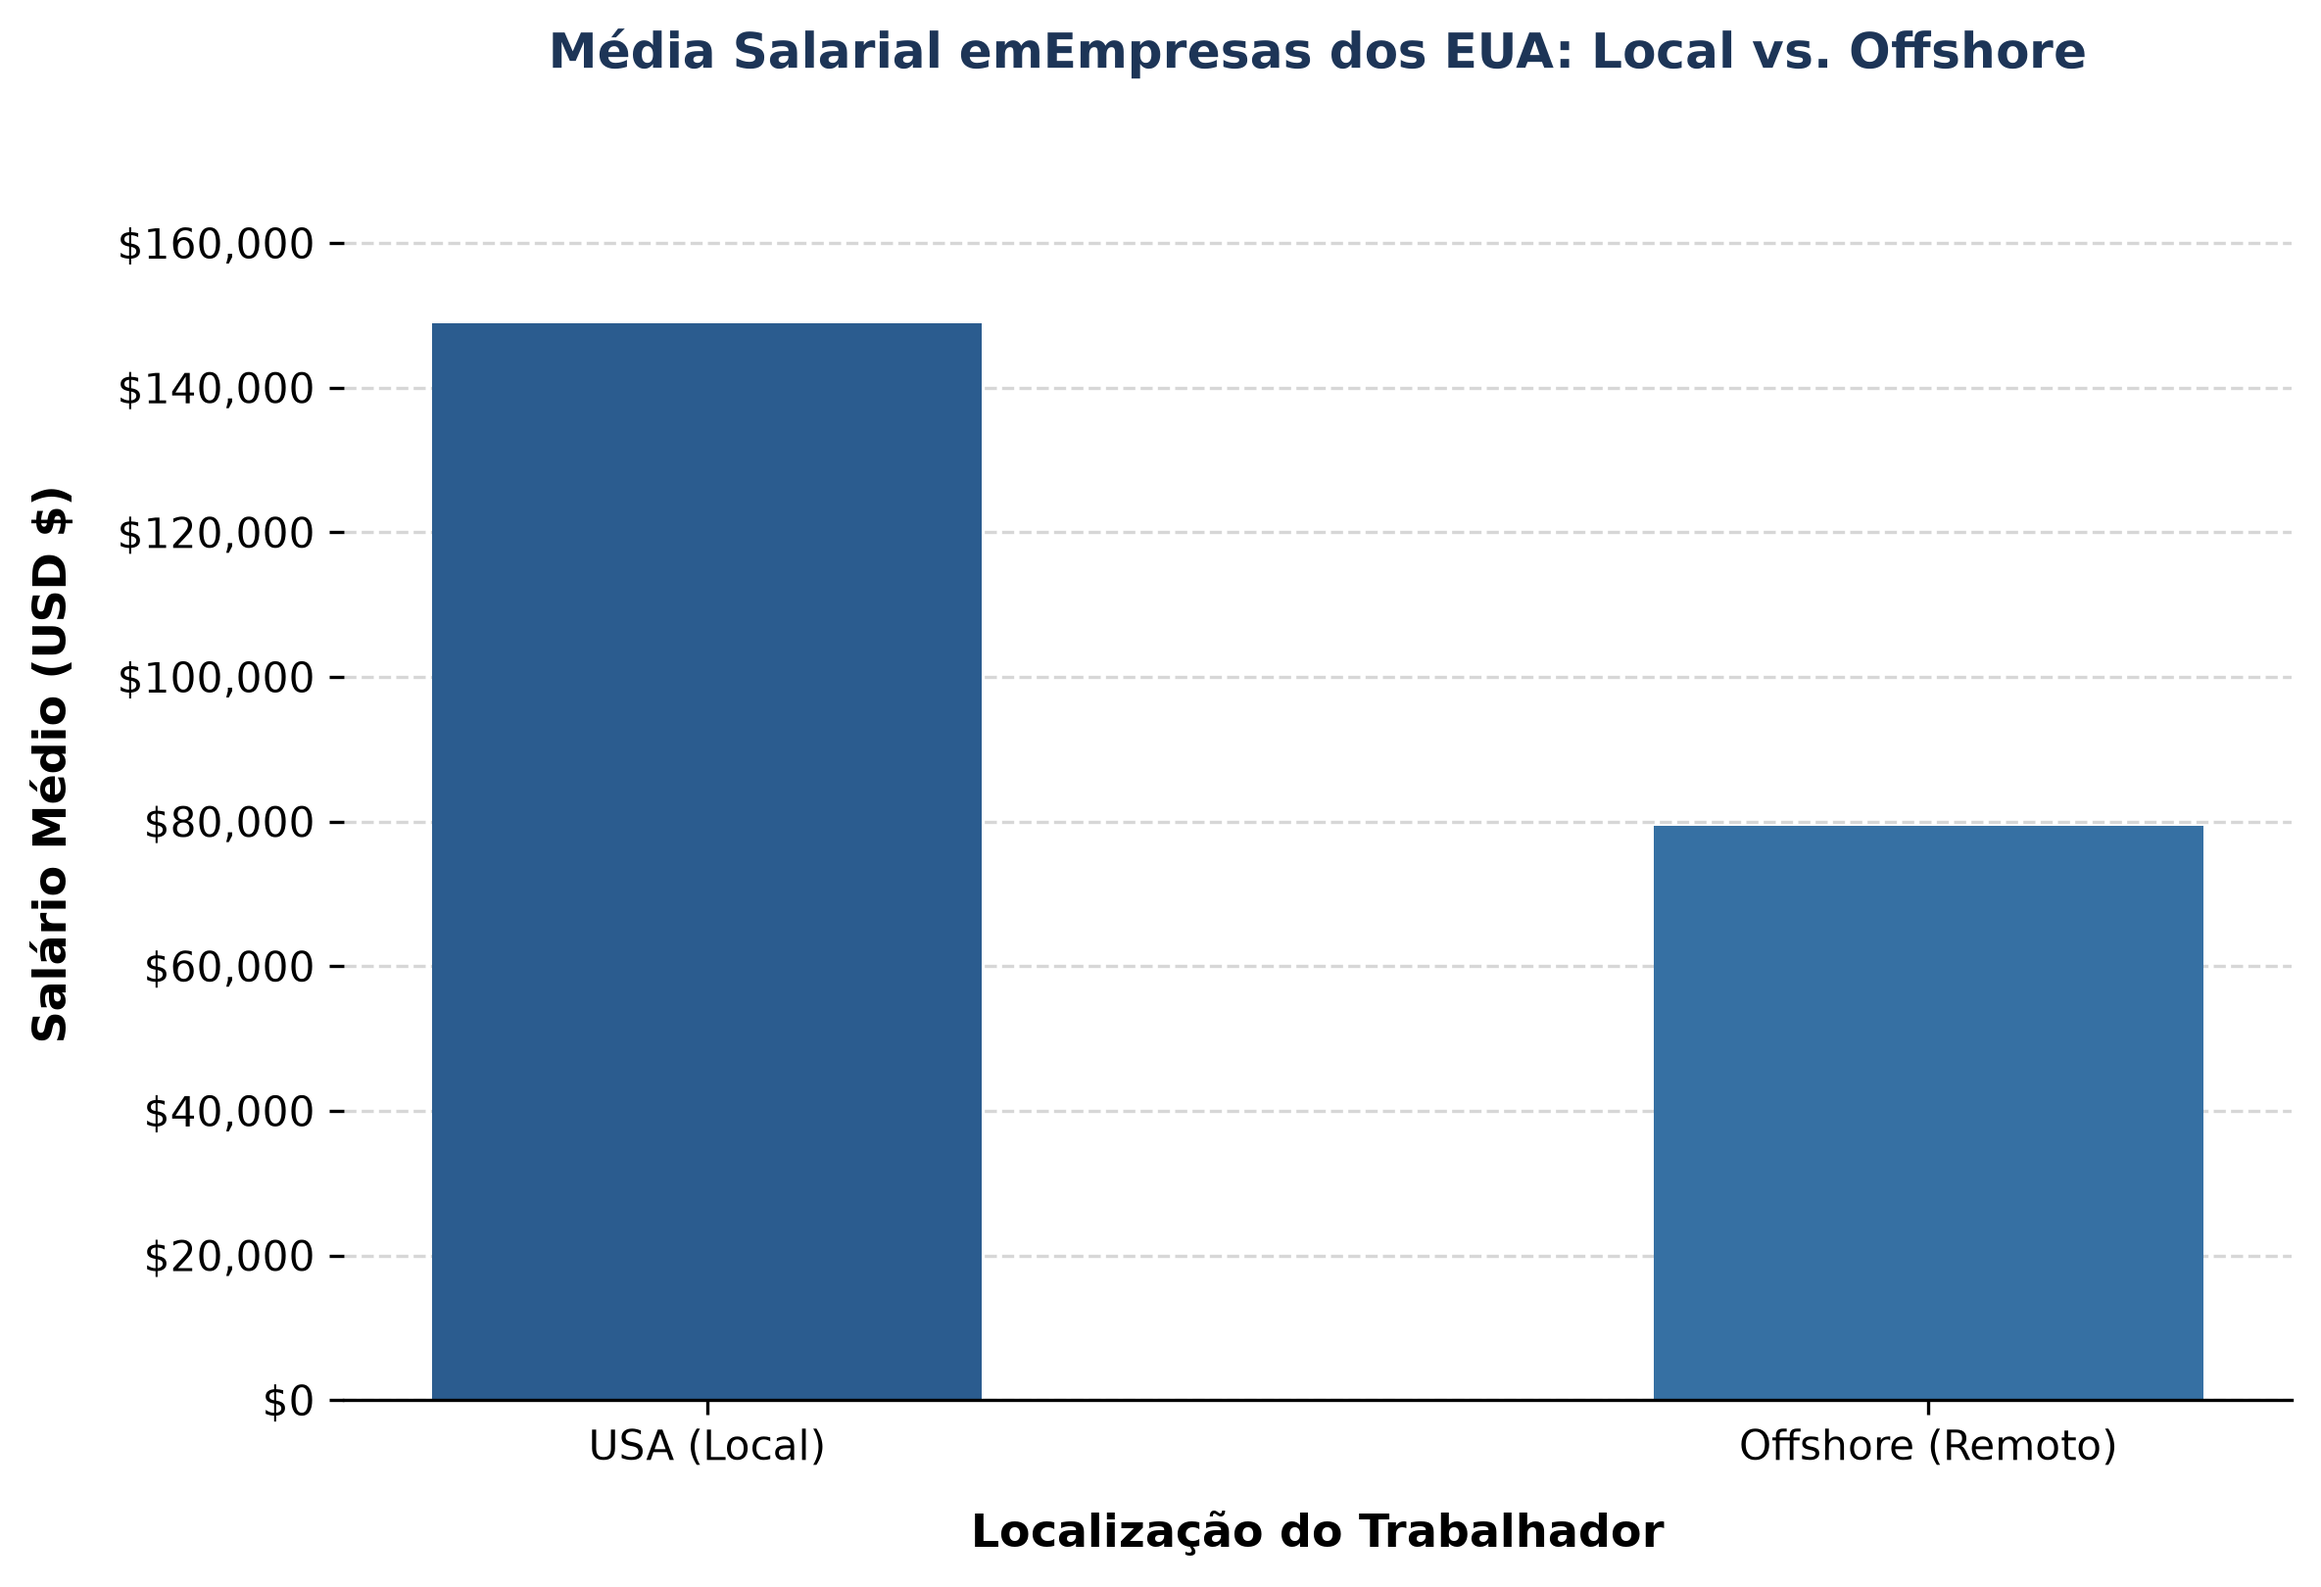
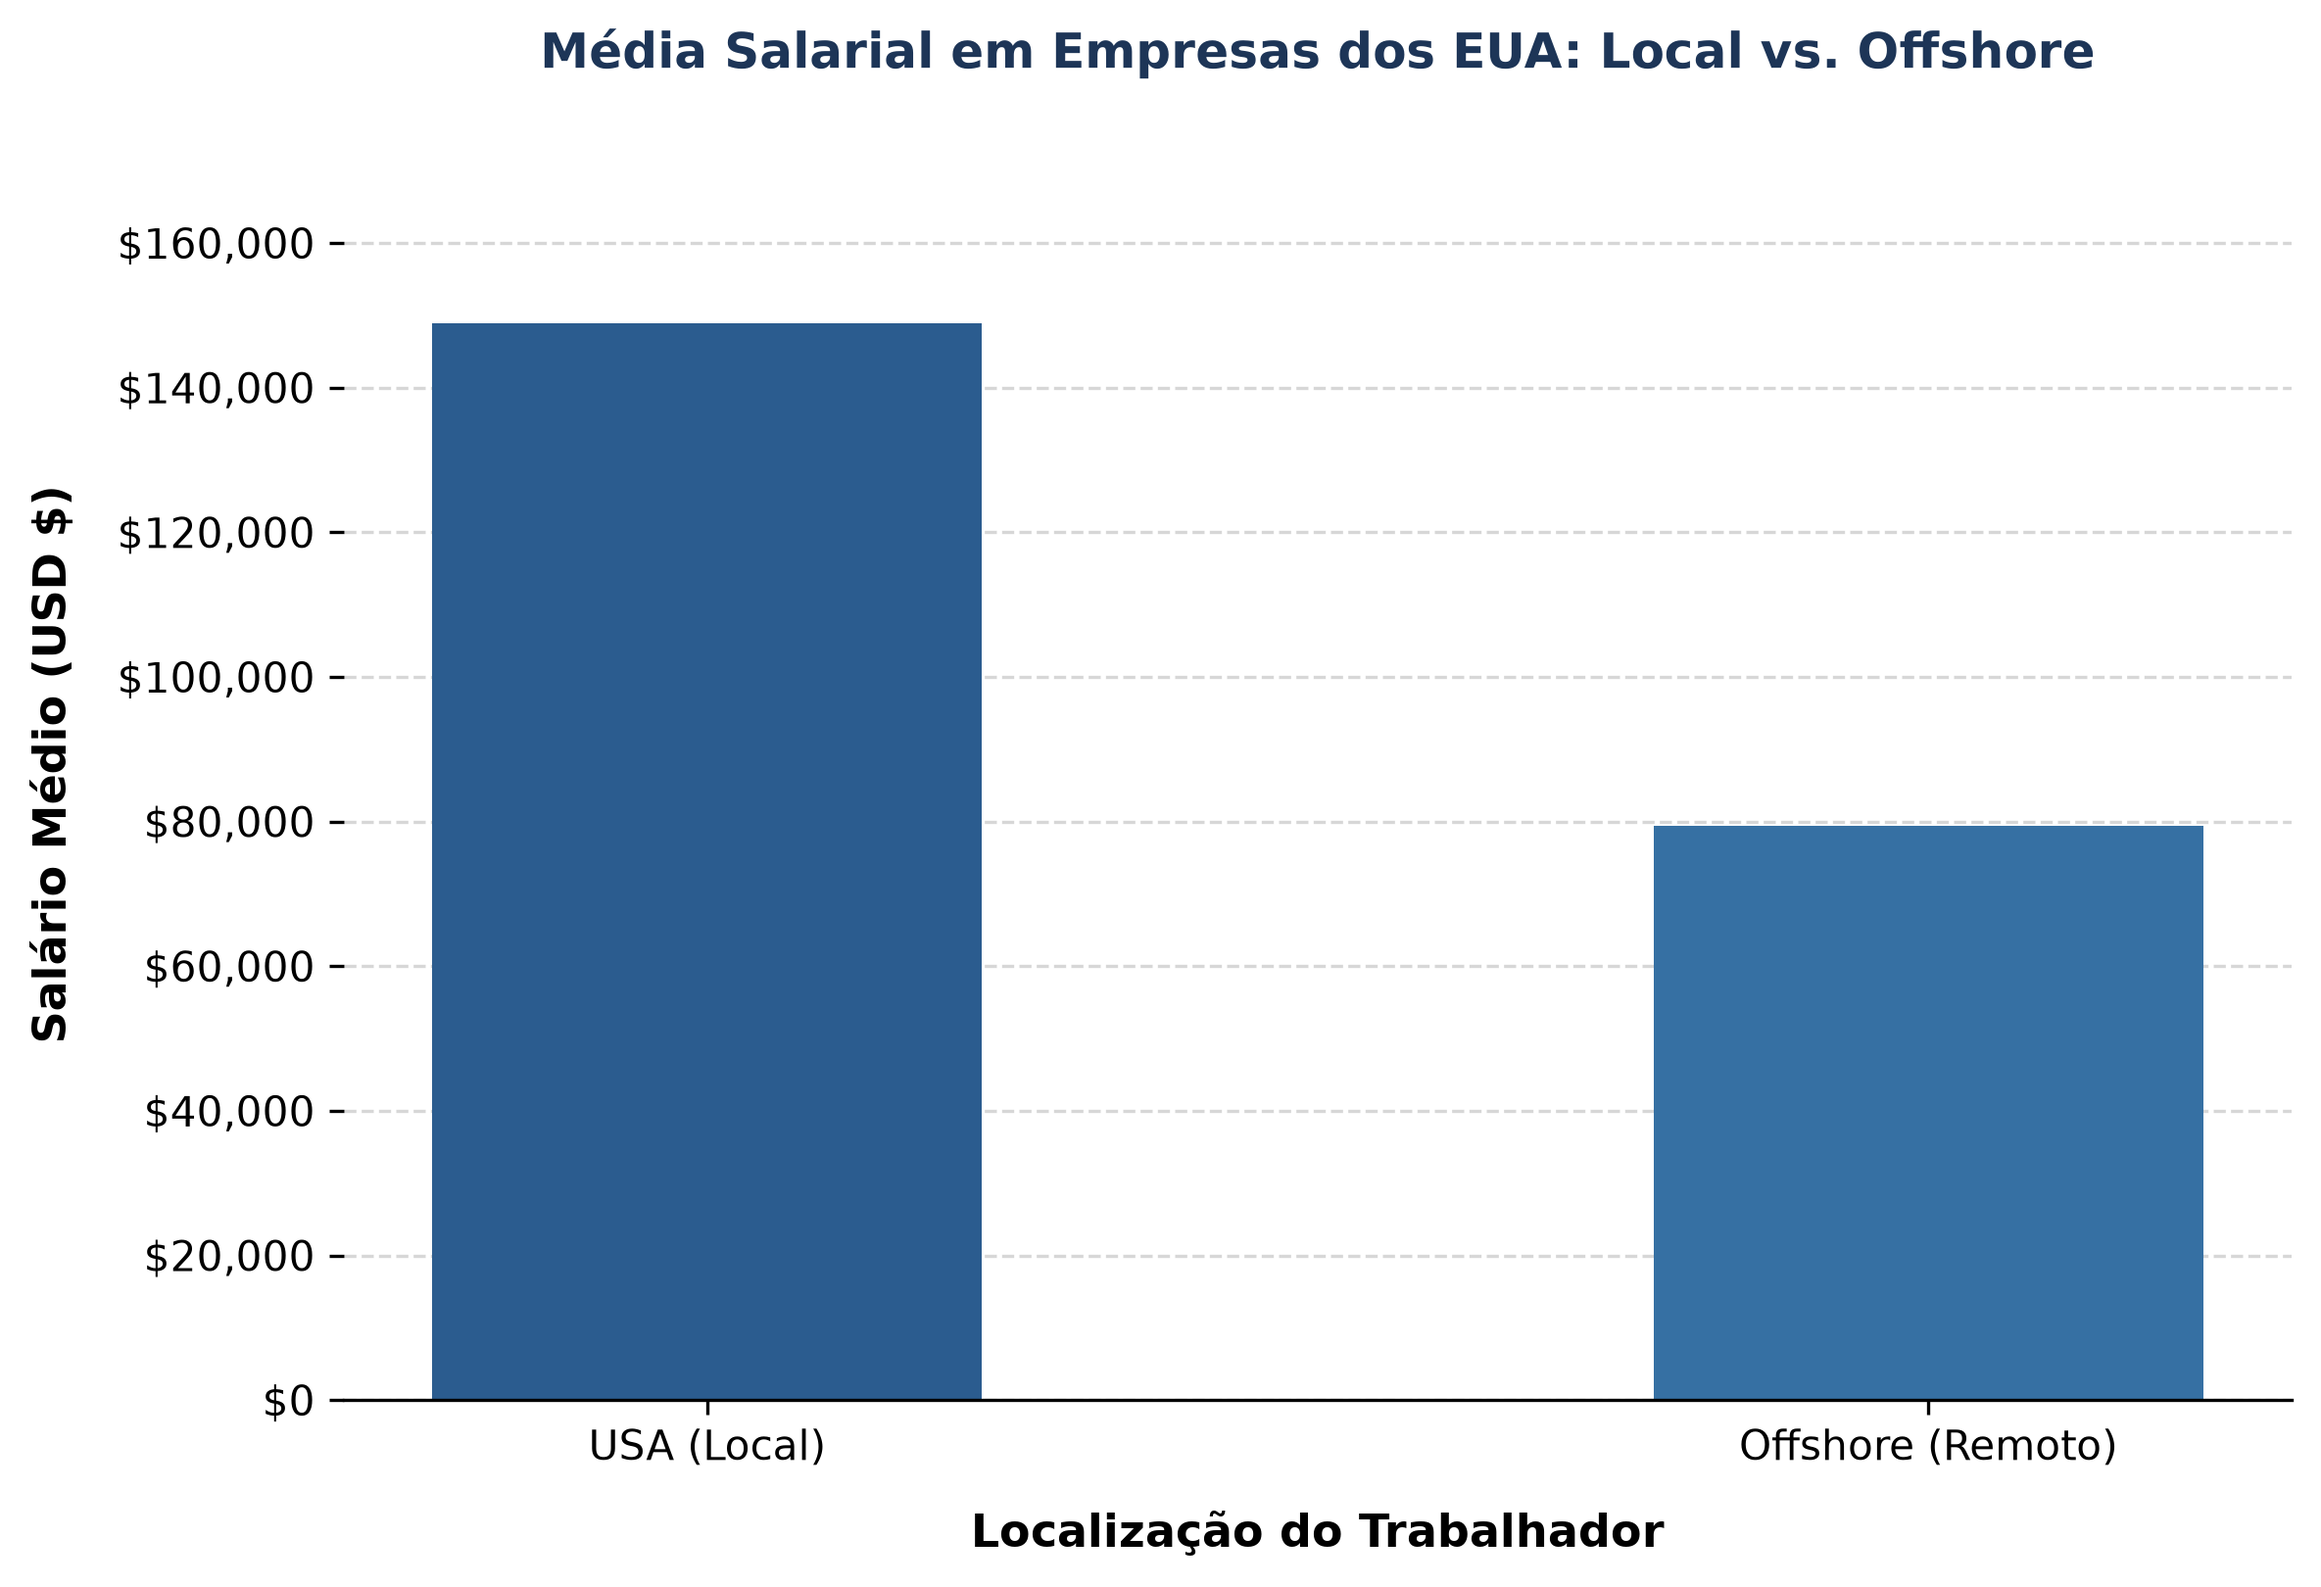
202610191121

Changed region(s): [[0.2187, 0.0, 0.9059, 0.0617]]

diff --git a/scripts/s06_grafico_us_offshore.py b/scripts/s06_grafico_us_offshore.py
@@ -31,7 +31,7 @@ for barra in barras:
         ha = 'center', va = 'bottom', fontsize = 10, fontweight = 'bold', color = '#1d3557')
 
     # Estilo
-    ax.set_title('Média Salarial emEmpresas dos EUA: Local vs. Offshore', fontsize = 12, fontweight = 'bold', pad = 15, color = '#1d3557')
+    ax.set_title('Média Salarial em Empresas dos EUA: Local vs. Offshore', fontsize = 12, fontweight = 'bold', pad = 15, color = '#1d3557')
     ax.set_xlabel('Localização do Trabalhador', fontsize = 11, fontweight = 'bold', labelpad = 10)
     ax.set_ylabel('Salário Médio (USD $)', fontsize = 11, fontweight = 'bold', labelpad = 10)
 

diff --git a/scripts/s04_analise_geografica.py b/scripts/s04_analise_geografica.py
@@ -5,7 +5,6 @@ from pathlib import Path
 #Ajuste de caminho para localizar o config.py na pasta raiz do projeto
 sys.path.append(str(Path(__file__).resolve().parent.parent))
 
-import os
 import pandas as pd
 import config
 

diff --git a/scripts/s07_analise_tamanho_empresa.py b/scripts/s07_analise_tamanho_empresa.py
@@ -4,7 +4,6 @@ from pathlib import Path
 
 sys.path.append(str(Path(__file__).resolve().parent.parent))
 
-import os
 import pandas as pd
 import config
 

diff --git a/README.md b/README.md
@@ -1,6 +1,8 @@
 # 📊 Data Science Job Salaries Analysis
 
-Este projeto é uma análise exploratória dos salários na área de Data Science em todo o mundo, desenvolvida com base no conjunto de dados *Data Science Job Salaries* do Kaggle.
+Este repositório contém uma análise exploratória e estatística sobre a remuneração global na área de **Data Science** e **Tecnologia**. O objetivo do projeto é mapear como o **nível de experiência**, a **localização geográfica (local vs. offshore)**, o **tamanho da empresa** e o **modelo de trabalho (presencial, híbrido e remoto)** impactam os salários anuais em dólares (USD).
+
+O projeto foi desenvolvido seguindo boas práticas de engenharia de software e **Clean Code**: arquitetura modular, centralização de configurações no `config.py` e separação rigorosa entre processamento de dados e geração gráfica.
 
 ---
 
@@ -9,20 +11,44 @@ Este projeto é uma análise exploratória dos salários na área de Data Scienc
 * **Amostra Analisada**: 607 registos de profissionais de dados.
 * **Salário Médio Global**: **\$112,297.87 USD / ano**.
 * **Média Salarial por Nível de Experiência**:
-  * **EN (Júnior)**: \$ 61,643.32 USD
-  * **MI (Pleno)**: \$ 87,996.06 USD (+42.8%)
-  * **SE (Sénior)**: \$138,617.29 USD (+57.5% — *maior crescimento*)
-  * **EX (Executivo)**: \$199,392.04 USD (+43.8%)
+  * **EN (Júnior)**: \$61,643.32 USD
+  * **MI (Pleno)**: \$87,996.06 USD (+42.8% — *maior salto salarial percentual*)
+  * **SE (Sénior)**: \$138,617.29 USD (+57.5%)
+  * **EX (Executivo)**: \$199,392.04 USD (+43.8% — *maior salto absoluto*)
 * **Diferença Salarial USA vs. Offshore**:
-  * **USA**: \$ 148,955.90 USD (+87.7%)
-  * **Offshore**: \$ 79,366.84 USD
+  * **USA (Local)**: \$148,955.90 USD (+87.7% vs. Offshore)
+  * **Offshore (Remoto Internacional)**: \$79,366.84 USD
+* **Impacto do Porte da Empresa e Modelo de Trabalho**:
+  * **Porte**: Empresas de grande (**L**) e médio (**M**) porte pagam salários significativamente superiores às de pequeno porte (**S**).
+  * **Modelo de Trabalho**: O isolamento da senioridade em cada cargo (painel 2x2) revela a real variação de remuneração entre regimes presencial, híbrido e remoto sem o viés da concentração de seniores no remoto.
 
 ---
 
-## 📊 Visualização de Dados
+## 🎨 Visualizações e Gráficos
 
-![Média Salarial por Nível de Experiência](imagens/grafico_salarios_experiencia.png)
-![Salário USA vs. Offshore (Empresas USA)](imagens/grafico_salarios_offshore.png)
+### 1. Progressão Salarial por Experiência e Comparação Geográfica
+![Salários por Experiência](imagens/grafico_salarios_experiencia.png)
+
+---
+
+### 2. Média Salarial por País e Impacto do Modelo Offshore (EUA)
+![Média por País](imagens/grafico_salarios_paises.png)
+![EUA vs Offshore](imagens/grafico_salarios_offshore.png)
+
+---
+
+### 3. Impacto do Porte da Empresa e do Modelo de Trabalho por Cargo
+![Tamanho da Empresa](imagens/grafico_tamanho_empresa.png)
+![Modelo Remoto por Cargo](imagens/grafico_remoto.png)
+
+---
+
+## 🛠 Tecnologias Utilizadas
+
+* **Python 3.13**
+* **Pandas** (Tratamento, limpeza e agregação de dados)
+* **Matplotlib** (Visualização e geração de gráficos de alta resolução)
+* **NumPy** (Cálculos numéricos e operações vetoriais)
 
 ---
 
@@ -30,41 +56,90 @@ Este projeto é uma análise exploratória dos salários na área de Data Scienc
 
 ```text
 ds-salaries-analysis/
-├── dados/
-│   └── ds_salaries.csv                     # Conjunto de dados do Kaggle
-├── scripts/
-│   ├── 01_exploracao.py                    # Análise inicial de dados
-│   ├── 02_tabela_carreira.py               # Agregação por nível de experiência
-│   ├── 03_visualizacao.py                  # Geração do gráfico Matplotlib
-│   ├── 04_analise_geografica.py            # Analise por localização em relação ao país da companhia
-│   └── 05_grafico_analise_geografica.py    # Geração do gráfico Matplotlib
-├── imagens/
-│   ├── grafico_salarios_experiencia.png    # Gráficos gerados para o relatório
-│   └── grafico_salarios_offshore.png
-├── .gitignore                              # Ficheiros ignorados pelo Git
-└── README.md                               # Apresentação do projeto
+│
+├── dados/                         # Datasets brutos (CSVs)
+│   ├── ds_salaries.csv            # Registo de salários globais
+│   └── iso_3166_data.csv          # Tabela de mapeamento dos códigos ISO dos países
+│
+├── imagens/                       # Gráficos exportados automaticamente
+│   ├── grafico_salarios_experiencia.png
+│   ├── grafico_salarios_paises.png
+│   ├── grafico_salarios_offshore.png
+│   ├── grafico_salarios_tamanho_empresa.png
+│   └── grafico_salarios_remoto_presencial.png
+│
+├── scripts/                       # Módulos Python de análise e gráficos
+│   ├── s01_exploracao.py
+│   ├── s02_analise_salario_exp.py
+│   ├── s03_grafico_salario_exp.py
+│   ├── s04_analise_geografica.py
+│   ├── s05_grafico_paises.py
+│   ├── s06_grafico_us_offshore.py
+│   ├── s07_analise_tamanho_empresa.py
+│   ├── s08_grafico_tamanho_empresa.py
+│   ├── s09_analise_remoto_presencial.py
+│   └── s10_grafico_remoto_presencial.py
+│
+├── config.py                      # Configuração centralizada de caminhos (pathlib.Path)
+└── README.md                      # Documentação principal do projeto
+
 ```
+
 ---
 
-## 🛠 Tecnologias Utilizadas
+## 📋 Módulos da Pipeline (`scripts/`)
 
-* **Python 3.13**
-* **Pandas** (Tratamento e agregação de dados)
-* **Matplotlib** (Visualização e geração de gráficos)
+| Script                                  | Tipo            | Função &amp; Responsabilidade                                                                                                      |
+| --------------------------------------- | --------------- | ------------------------------------------------------------------------------------------------------------------------------ |
+| **config.py** *(Raiz)*                  | ⚙ *Config*     | Centralização de constantes e caminhos dinâmicos de dados e imagens via `pathlib.Path`.                                        |
+| **s01\_exploracao.py**                  | 🔍 *Exploração* | Inspeção inicial da estrutura (`.info()`, `.describe()`) e identificação de valores discrepantes.                              |
+| **s02\_analise\_salario\_exp.py**       | 📊 *Análise*    | Agrupamento por nível de experiência (`EN`, `MI`, `SE`, `EX`), diferenças absolutas e percentuais.                             |
+| **s03\_grafico\_salario\_exp.py**       | 🎨 *Gráfico*    | Visualização da progressão de carreira por nível de experiência *(importa* *df\_resumo* *do* *s02* *)*.                        |
+| **s04\_analise\_geografica.py**         | 📊 *Análise*    | Mapeamento dos códigos ISO 3166, criação da flag `offshore` e comparação US Local vs. Offshore.                                |
+| **s05\_grafico\_paises.py**             | 🎨 *Gráfico*    | Gráfico de barras horizontais do salário médio por país de residência *(importa* *df\_paises\_filtrado* *do* *s04* *)*.        |
+| **s06\_grafico\_us\_offshore.py**       | 🎨 *Gráfico*    | Comparação de empresas dos EUA entre funcionários locais e contratações *Offshore* *(importa do* *s04* *)*.                    |
+| **s07\_analise\_tamanho\_empresa.py**   | 📊 *Análise*    | Mapeamento dos portes de empresa (`S`, `M`, `L`) e variações relativas.                                                        |
+| **s08\_grafico\_tamanho\_empresa.py**   | 🎨 *Gráfico*    | Gráfico de barras por tamanho de empresa *(importa* *df\_resumo* *do* *s07* *)*.                                               |
+| **s09\_analise\_remoto\_presencial.py** | 📊 *Análise*    | Processamento em loop para os 4 principais cargos por senioridade e modelo de trabalho.                                        |
+| **s10\_grafico\_remoto\_presencial.py** | 🎨 *Gráfico*    | Painel em grade 2x2 com subplots comparando a remuneração por cargo, senioridade e modelo de trabalho *(importa do* *s09* *)*. |
 
 ---
 
 ## 💻 Como Executar o Projeto
 
-1. Abra o terminal na pasta raiz do projeto:
-```bash
-cd ds-salaries-analysis
+### 1\. Pré-requisitos
+
+Certifique-se de ter o Python instalado e as bibliotecas necessárias:
+
 ```
-2. Execute o script de visualização:
-```bash
-python scripts/03_visualizacao.py
+pip install pandas matplotlib numpy
+
 ```
-3. Execute o script de visualização:
-```bash
-python scripts/05_grafico_analise_geografica.py
+
+### 2\. Executar um Script de Análise (Terminal)
+
+Para processar os dados e visualizar as tabelas explicativas e métricas diretamente no terminal:
+
 ```
+python scripts/s07_analise_tamanho_empresa.py
+
+```
+
+### 3\. Gerar um Gráfico
+
+Para executar um script de visualização e exportar a imagem correspondente para a pasta `imagens/`:
+
+```
+python scripts/s10_grafico_remoto_presencial.py
+
+```
+
+ℹ **Nota:** O comando acima salva a imagem em alta resolução (`.png`) na pasta `imagens/`.
+
+### 4\. Visualizar o Gráfico Gerado
+
+Abra a imagem diretamente pelo explorador do VS Code ou pelo terminal:
+
+* **macOS**: `open imagens/grafico_salarios_remoto_presencial.png`
+* **Linux**: `xdg-open imagens/grafico_salarios_remoto_presencial.png`
+* **Windows (PowerShell)**: `Start-Process imagens\grafico_salarios_remoto_presencial.png`
